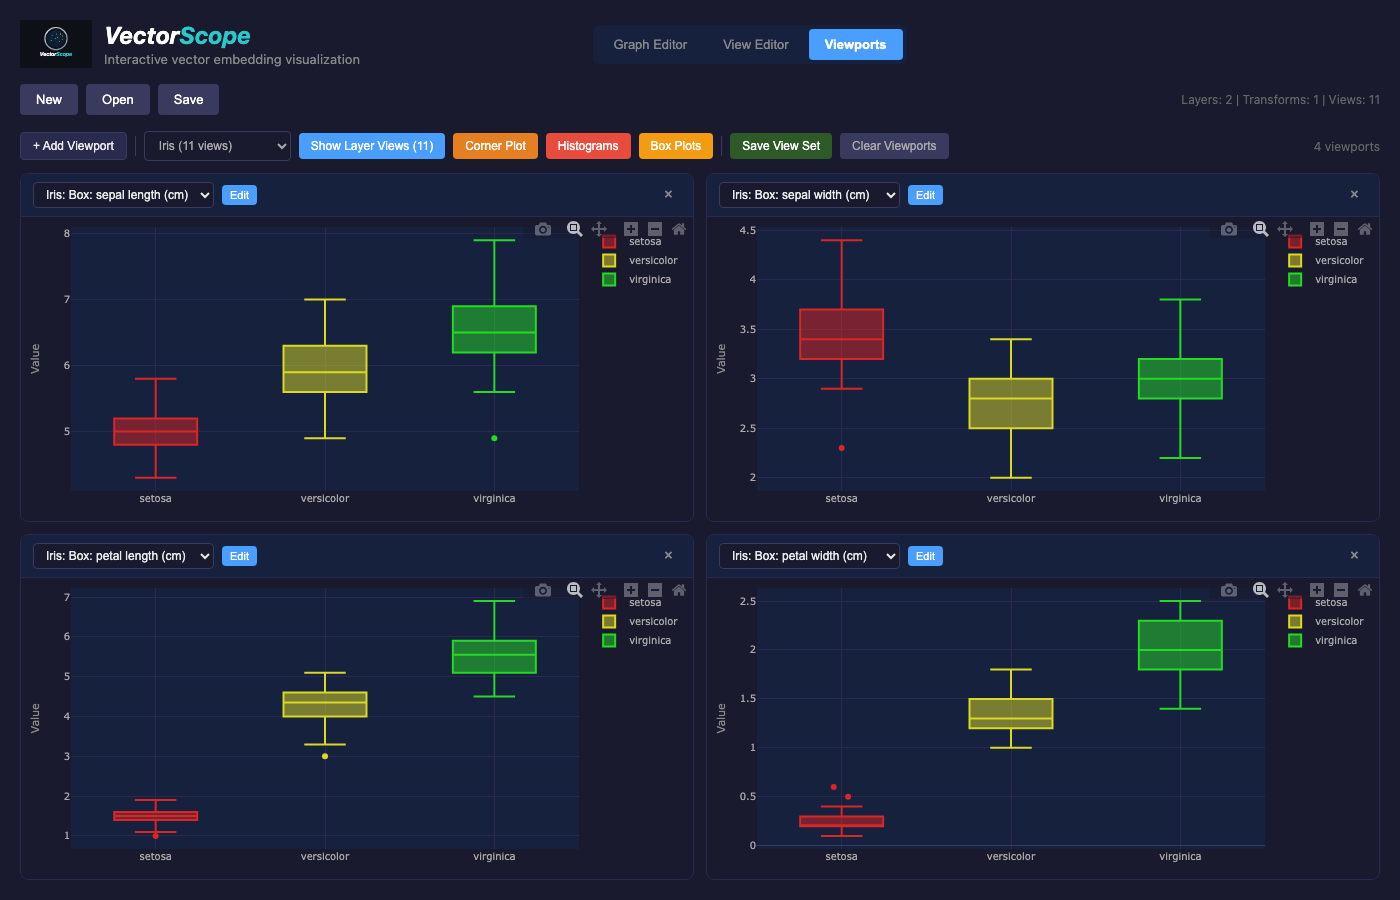
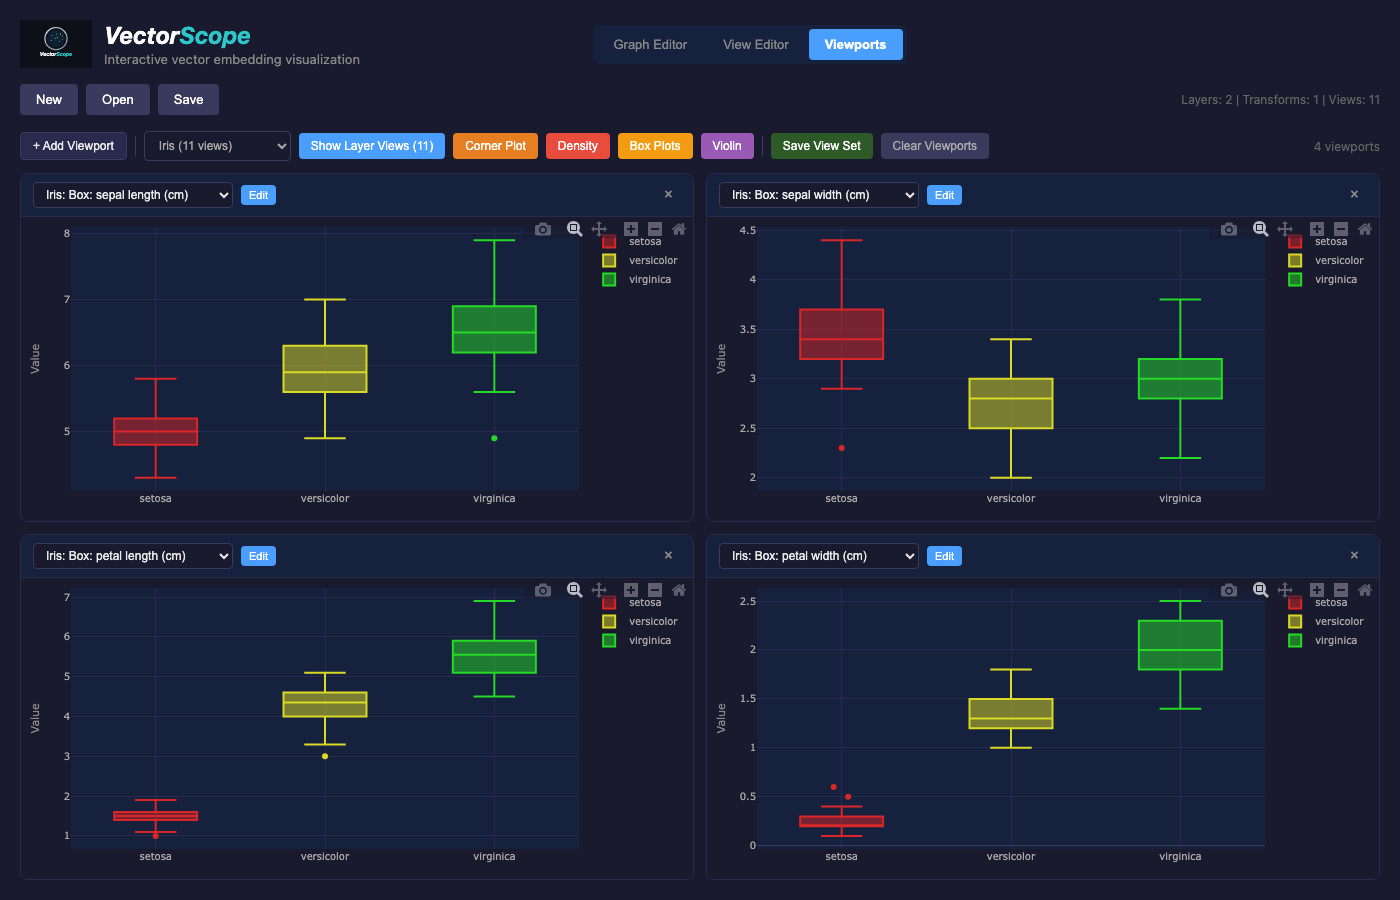
Add density and violin screenshots, rename histogram to density
- Rename histogram_view.png to density_view.png
- Add new violin_view.png screenshot
- Update quickstart to reference new image filenames
- Add violin plot figure to quickstart documentation
- Update screenshot script to capture density and violin views

🤖 Generated with [Claude Code](https://claude.com/claude-code)

diff --git a/scripts/capture_screenshots.py b/scripts/capture_screenshots.py
@@ -187,10 +187,10 @@ async def capture_screenshots():
             await page.click("button:has-text('Density')", timeout=5000)
             await page.wait_for_timeout(2000)
 
-            await page.screenshot(path=SCREENSHOTS_DIR / "histogram_view.png")
-            print("Captured: histogram_view.png")
+            await page.screenshot(path=SCREENSHOTS_DIR / "density_view.png")
+            print("Captured: density_view.png")
         except Exception as e:
-            print(f"Note: Could not capture histogram view: {e}")
+            print(f"Note: Could not capture density view: {e}")
 
         # Screenshot 8: Box Plots - click the "Box Plots" button in Viewports
         try:
@@ -201,6 +201,16 @@ async def capture_screenshots():
             print("Captured: boxplot_view.png")
         except Exception as e:
             print(f"Note: Could not capture box plot view: {e}")
+
+        # Screenshot 9: Violin - click the "Violin" button in Viewports
+        try:
+            await page.click("button:has-text('Violin')", timeout=5000)
+            await page.wait_for_timeout(2000)
+
+            await page.screenshot(path=SCREENSHOTS_DIR / "violin_view.png")
+            print("Captured: violin_view.png")
+        except Exception as e:
+            print(f"Note: Could not capture violin view: {e}")
 
         await browser.close()
         print(f"\nScreenshots saved to: {SCREENSHOTS_DIR}")

diff --git a/docs/quickstart.rst b/docs/quickstart.rst
@@ -183,7 +183,7 @@ To see the distribution of values for a single dimension:
 4. Use the dimension selector to explore different features
 5. Toggle between KDE (default) and Histogram modes
 
-.. figure:: _static/images/histogram_view.png
+.. figure:: _static/images/density_view.png
    :alt: Density view
    :width: 100%
 
@@ -213,6 +213,13 @@ and the full distribution shape:
 1. Click on a layer node
 2. Click the "+" button and select **Violin**
 3. Switch to View Editor and select the violin view
+
+.. figure:: _static/images/violin_view.png
+   :alt: Violin plot view
+   :width: 100%
+
+   Violin plot view showing distribution shapes for each class. The width of each
+   violin represents the density of points at that value.
 
 Violin plots are particularly useful for:
 
